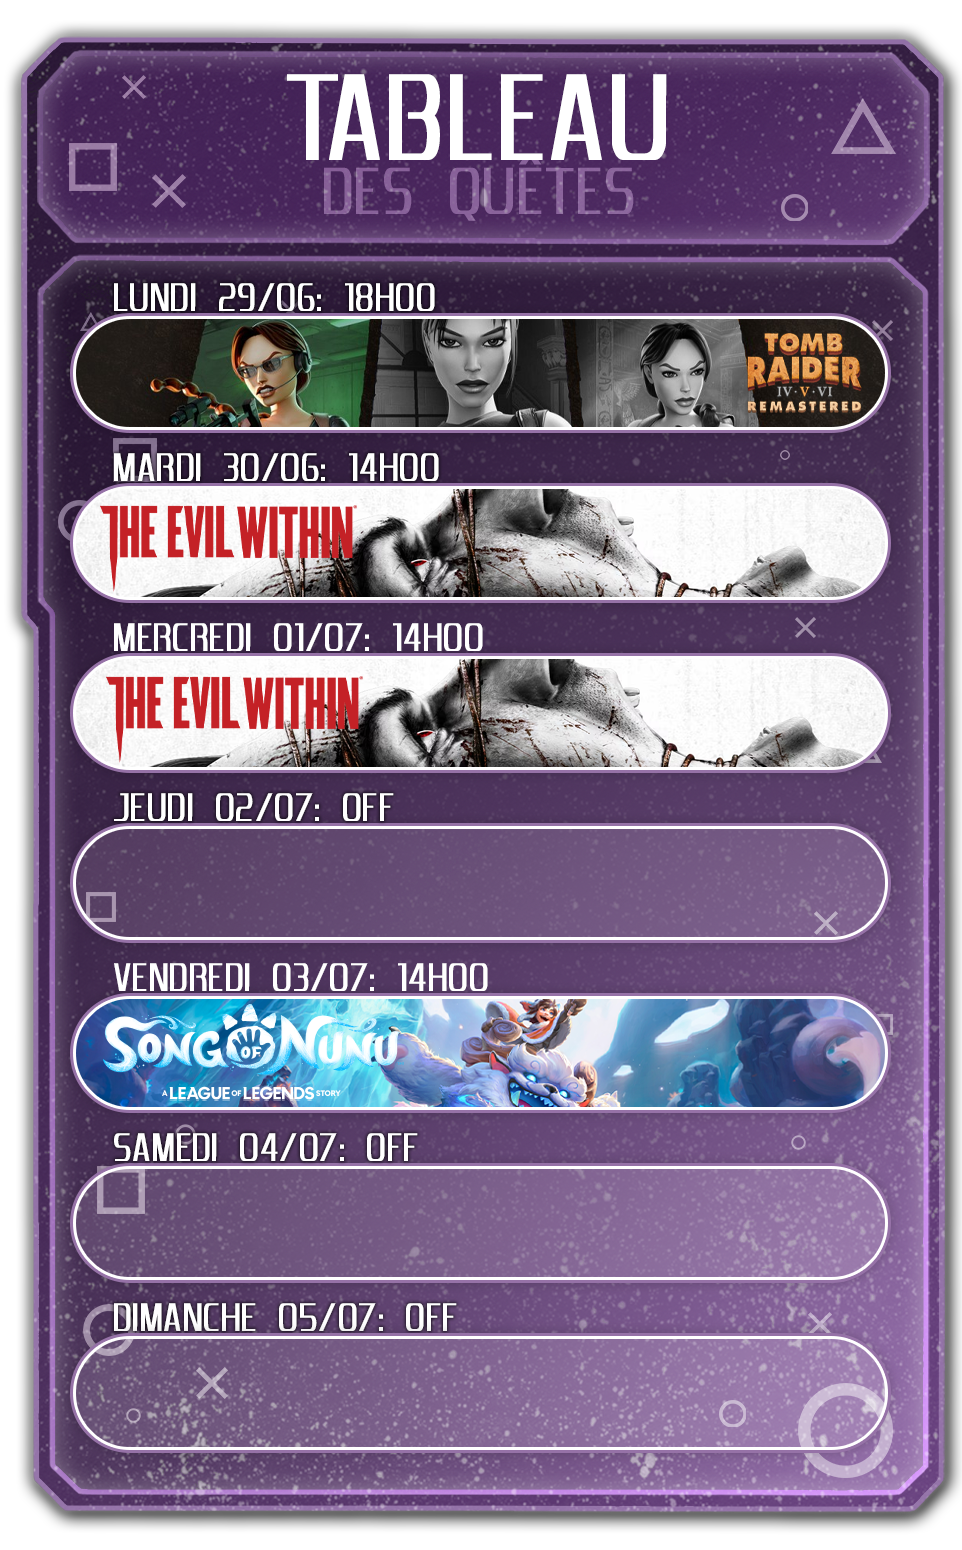
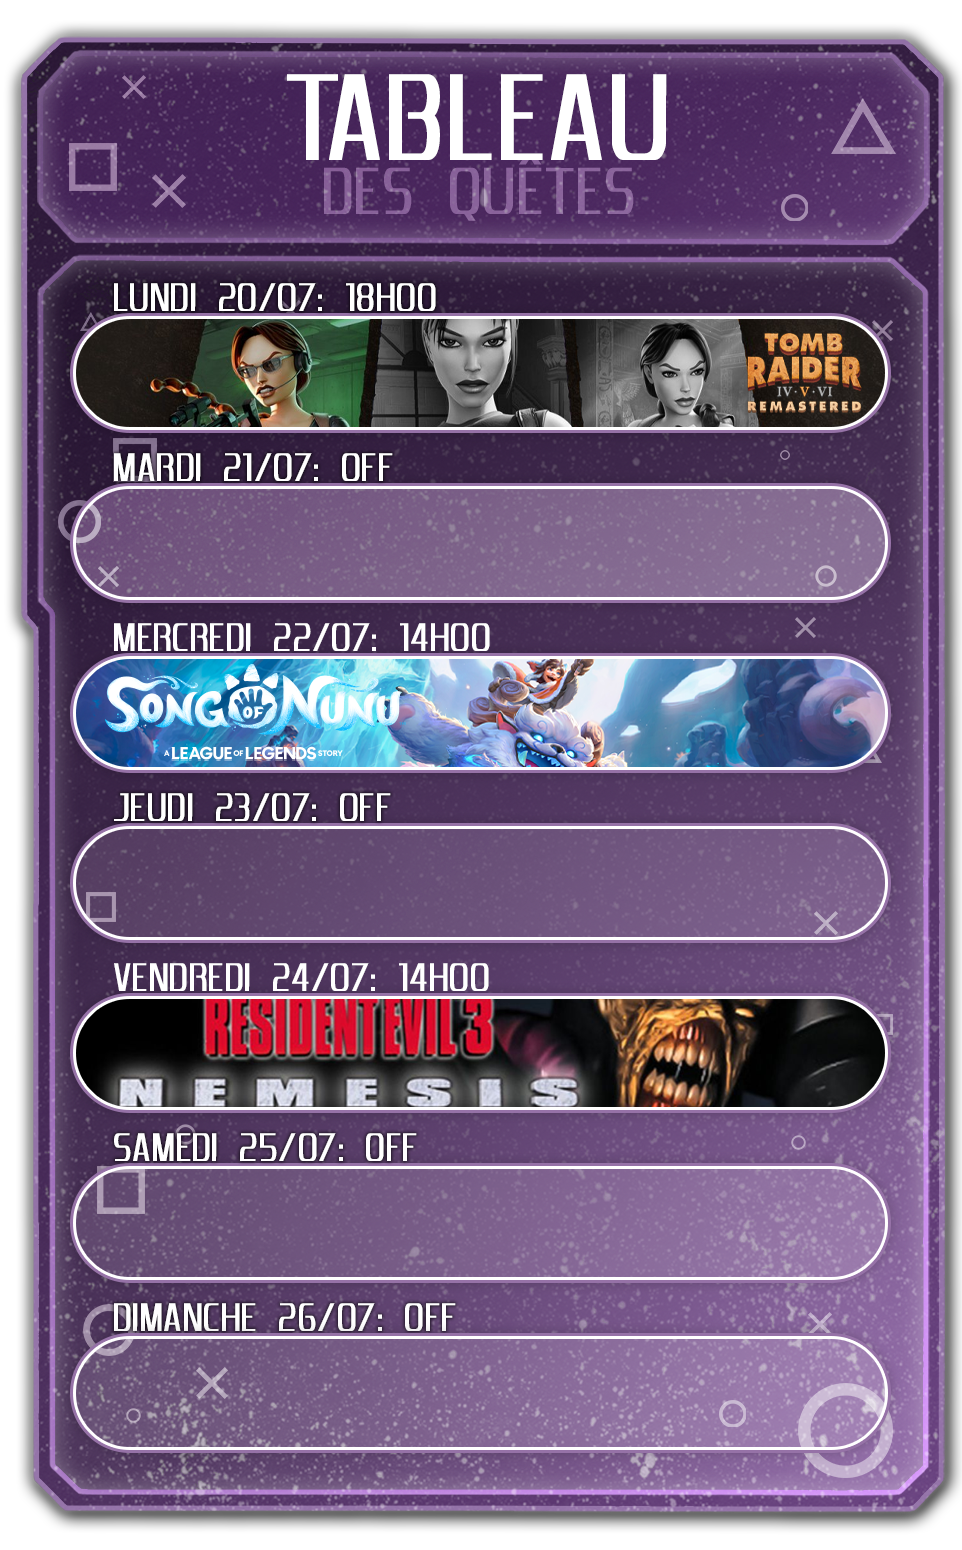
weekly update

diff --git a/assets/scripts/updates.js b/assets/scripts/updates.js
@@ -1,16 +1,18 @@
 export const updates = [
   {
-    version: "1.56",
-    date: "28-06-2026",
+    version: "1.57",
+    date: "20-07-2026",
     messages: {
       fr: {
         features: [
-          "○ Planning de la semaine du 28 juin 2026",
+          "○ Planning de la semaine du 20 juillet 2026",
         
           "○ Mise à jour des succès Tomb Raider IV•V•VI Remastered (Steam)",
-          "○ Mise à jour des succès Goblin Cleanup (Steam)",
+          "○ Mise à jour des succès Mages of Mystralia (Steam)",
+          "○ Mise à jour des succès The Evil Within (Steam)",
 
-          "○ Ajout du jeu Mages of Mystralia et de ses succès (Steam)",
+          "○ Ajout du jeu LORT et de ses succès (Steam)",
+          "○ Ajout du jeu Witchspire et de ses succès (Steam)"
         ],
         fixes: [
           
@@ -23,12 +25,14 @@ export const updates = [
       },
       en: {
         features: [
-          "○ Weekly Schedule from the 28th of June 2026",
+          "○ Weekly Schedule from the 20th of June 2026",
 
           "○ Updated Tomb Raider IV•V•VI Remastered achievements (Steam)",
-          "○ Updated Goblin Cleanup achievements (Steam)",
+          "○ Updated Mages of Mystralia achievements (Steam)",
+          "○ Updated The Evil Within achievements (Steam)",
 
-          "○ Added the game Mages of Mystralia and its achievements (Steam)",
+          "○ Added the game LORT and its achievements (Steam)",
+          "○ Added the game Witchspire and its achievements (Steam)"
 
         ],
         fixes: [
